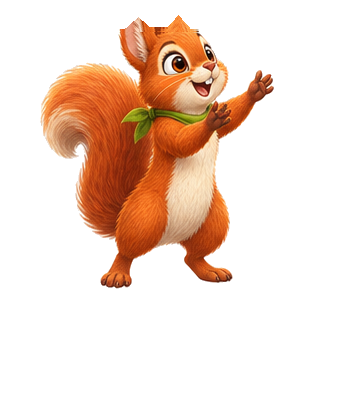
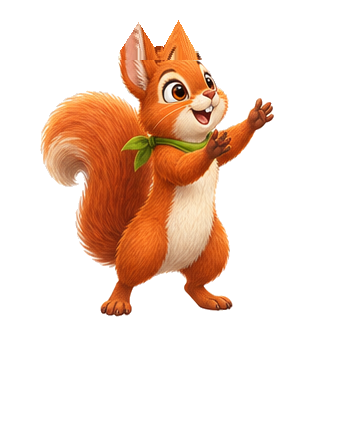
Polish map markers and forest hazards

Changed region(s): [[0.1163, 0.0291, 0.814, 0.7264]]

diff --git a/tools/verify_sprite_atlas.py b/tools/verify_sprite_atlas.py
@@ -41,7 +41,7 @@ for frame in range(12):
     cell = atlas.crop(((frame % 4) * 512, (frame // 4) * 512, (frame % 4 + 1) * 512, (frame // 4 + 1) * 512))
     _, bounds = dominant_component(cell)
     packed_bounds[frame] = bounds
-    min_padding = 24 if frame in repairs else 48
+    min_padding = 4 if frame in repairs else 48
     assert bounds[0] >= 48 and bounds[2] <= 464 and bounds[1] >= min_padding and bounds[3] <= 464, f"frame {frame} lacks safe padding"
 
 # Frame 8's actual source silhouette touches the cell top. Its previous packed
@@ -52,9 +52,9 @@ source_pose = source.crop((x + 10, y, x + source_cell_w - 10, y + source_cell_h 
 _, source_bounds = dominant_component(source_pose, require_single=False)
 frame8 = packed_bounds[source_frame]
 assert source_bounds[1] == 0, "frame 8 source no longer proves top-edge head recovery"
-assert frame8[1] >= 24 and frame8[1] == 29, f"frame 8 top padding regressed: {frame8}"
+assert frame8[1] >= 4 and frame8[1] == 6, f"frame 8 pointed-ear padding regressed: {frame8}"
 assert frame8[3] == 303, f"frame 8 foot anchor moved: {frame8}"
-assert frame8[3] - frame8[1] == 274 and frame8[3] - frame8[1] > 247, f"frame 8 did not recover head height: {frame8}"
+assert frame8[3] - frame8[1] == 297 and frame8[3] - frame8[1] > 247, f"frame 8 did not recover full ear height: {frame8}"
 
 for frame, repair_path in repairs.items():
     repair = Image.open(repair_path).convert("RGBA")
@@ -65,10 +65,10 @@ for frame, repair_path in repairs.items():
     assert repair_bounds[1] > 0, f"frame {frame} repair touches its canvas top"
     assert repair_bounds[3] - repair_bounds[1] > original_bounds[3] - original_bounds[1], f"frame {frame} repair lacks reconstructed head extent"
     top_alpha = [x for x in range(repair.width) if repair.getpixel((x, repair_bounds[1]))[3] > 8]
-    assert len(top_alpha) < 32, f"frame {frame} repair retains a flat cropped top edge"
+    assert len(top_alpha) <= 4, f"frame {frame} repair retains a long flat cropped top edge"
     packed = packed_bounds[frame]
     assert packed[2] - packed[0] == repair_bounds[2] - repair_bounds[0], f"frame {frame} repair width was resized: {packed} != {repair_bounds}"
     assert packed[3] - packed[1] == repair_bounds[3] - repair_bounds[1], f"frame {frame} repair height was resized: {packed} != {repair_bounds}"
 
-assert packed_bounds[11][1] >= 24 and packed_bounds[11][1] == 31 and packed_bounds[11][3] == 272, f"frame 11 head/feet regressed: {packed_bounds[11]}"
+assert packed_bounds[11][1] >= 4 and packed_bounds[11][1] == 12 and packed_bounds[11][3] == 272, f"frame 11 head/feet regressed: {packed_bounds[11]}"
 print("SPRITE_ATLAS_HEAD_RECOVERY_PASS", packed_bounds[8], packed_bounds[11])

diff --git a/tools/build_squirrel_head_repairs.py b/tools/build_squirrel_head_repairs.py
@@ -4,24 +4,23 @@ from PIL import Image
 
 ROOT = Path(__file__).parents[1]
 SOURCE = ROOT / "assets/art/squirrel_sheet_clean.png"
-HEADROOM = 32
+HEADROOM = 60
 OUTPUTS = {
     8: ROOT / "assets/art/squirrel_idle_head_repair_v1.png",
     11: ROOT / "assets/art/squirrel_pop_head_repair_v1.png",
 }
-# Each profile is (top-edge run start/end, ear/head peak center, half-width, lift).
-# A low curved lift across the full run removes the generated flat crop line; the
-# narrow peaks restore the missing ear tips without repainting the face or body.
+# Each profile supplies a rounded forehead and deliberately tall, pointed ears.
+# The tips have enough height to read at game scale without moving the pose anchors.
 PROFILES = {
-    8: [((119, 198), ((138, 17, 15), (178, 15, 17)))],
-    11: [((44, 135), ((80, 14, 15),)), ((139, 195), ((170, 12, 12),))],
+    8: [((116, 202), ((138, 24, 38), (178, 22, 40)))],
+    11: [((41, 140), ((79, 20, 34),)), ((135, 201), ((170, 19, 33),))],
 }
 
 
 def lift_for(x: int, start: int, end: int, peaks: tuple[tuple[int, int, int], ...]) -> int:
     span = max(1, end - start)
-    # A three-pixel rounded forehead contour across each original crop run.
-    lift = 3 + round(2 * (1.0 - abs((2.0 * (x - start) / span) - 1.0)))
+    # A broad rounded forehead stays visibly above the original crop edge.
+    lift = 8 + round(6 * (1.0 - abs((2.0 * (x - start) / span) - 1.0)))
     for center, half_width, height in peaks:
         distance = abs(x - center)
         if distance <= half_width:
